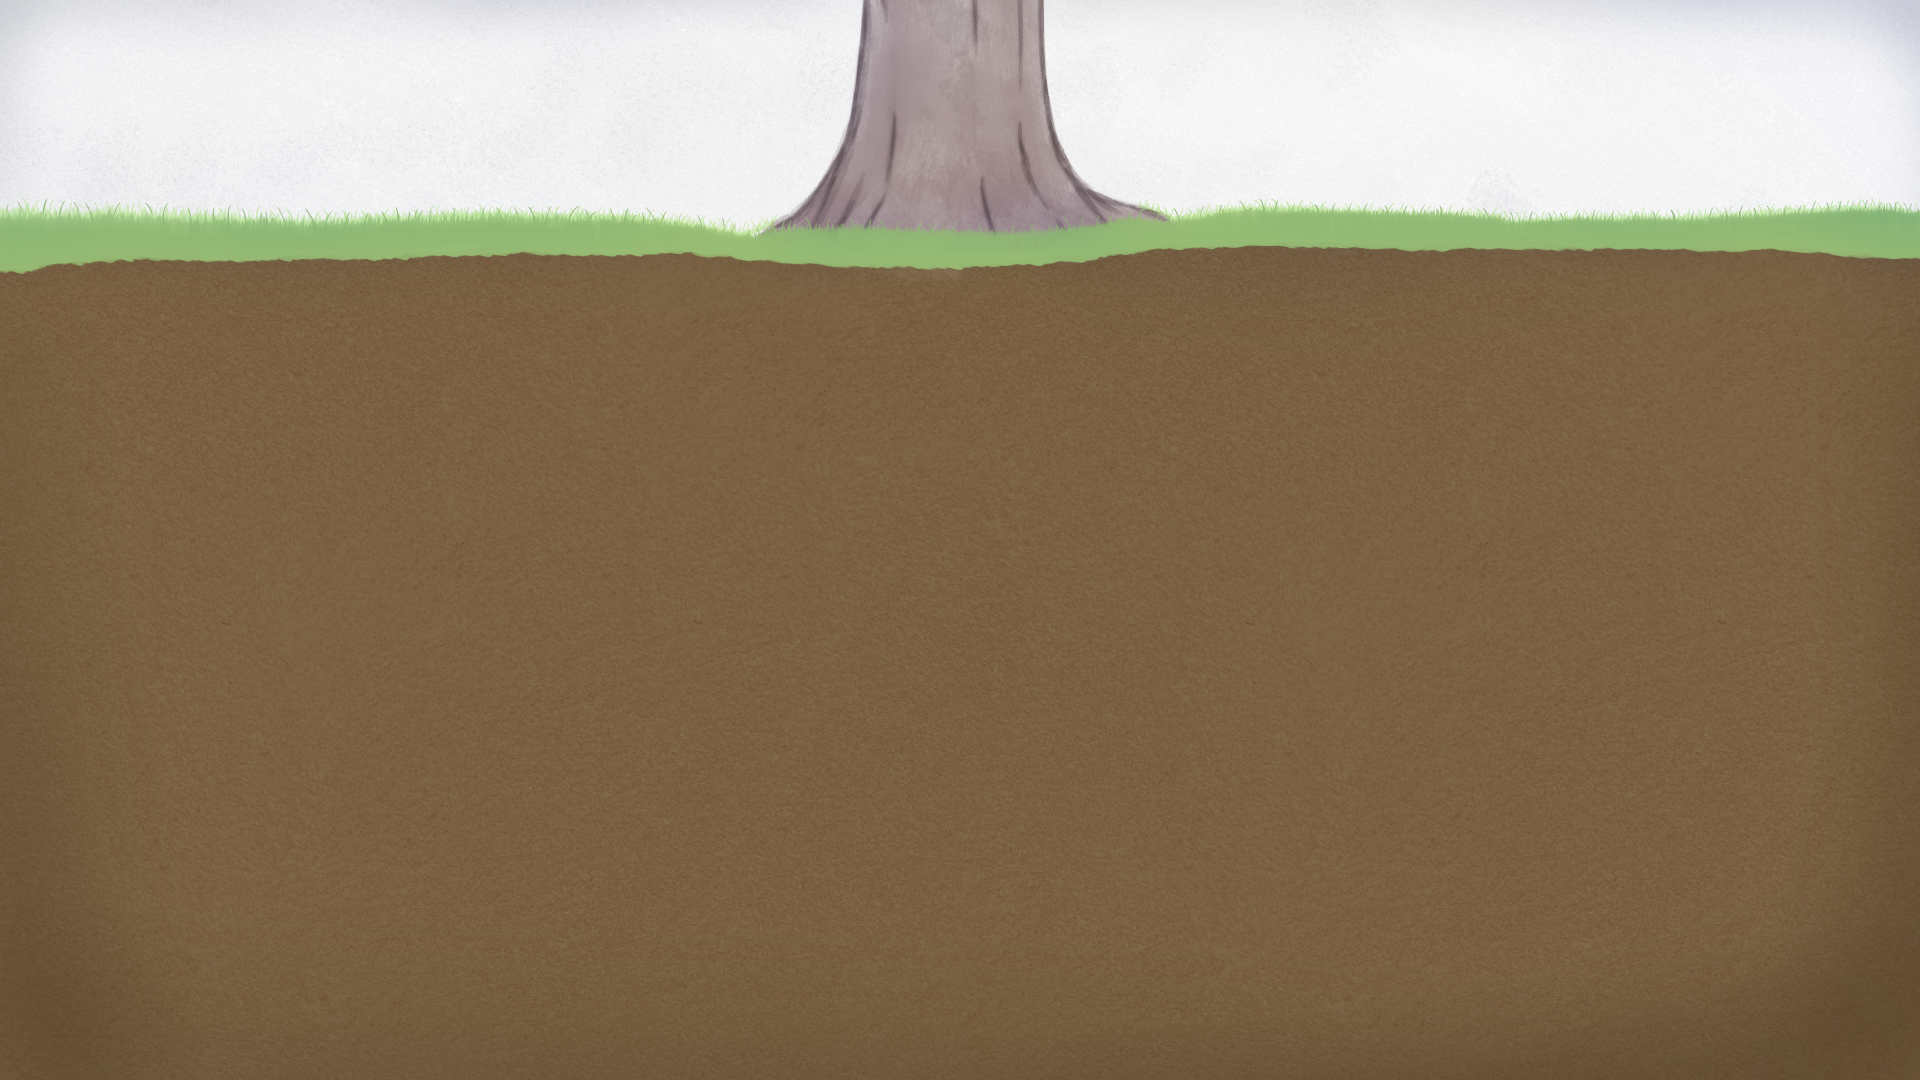
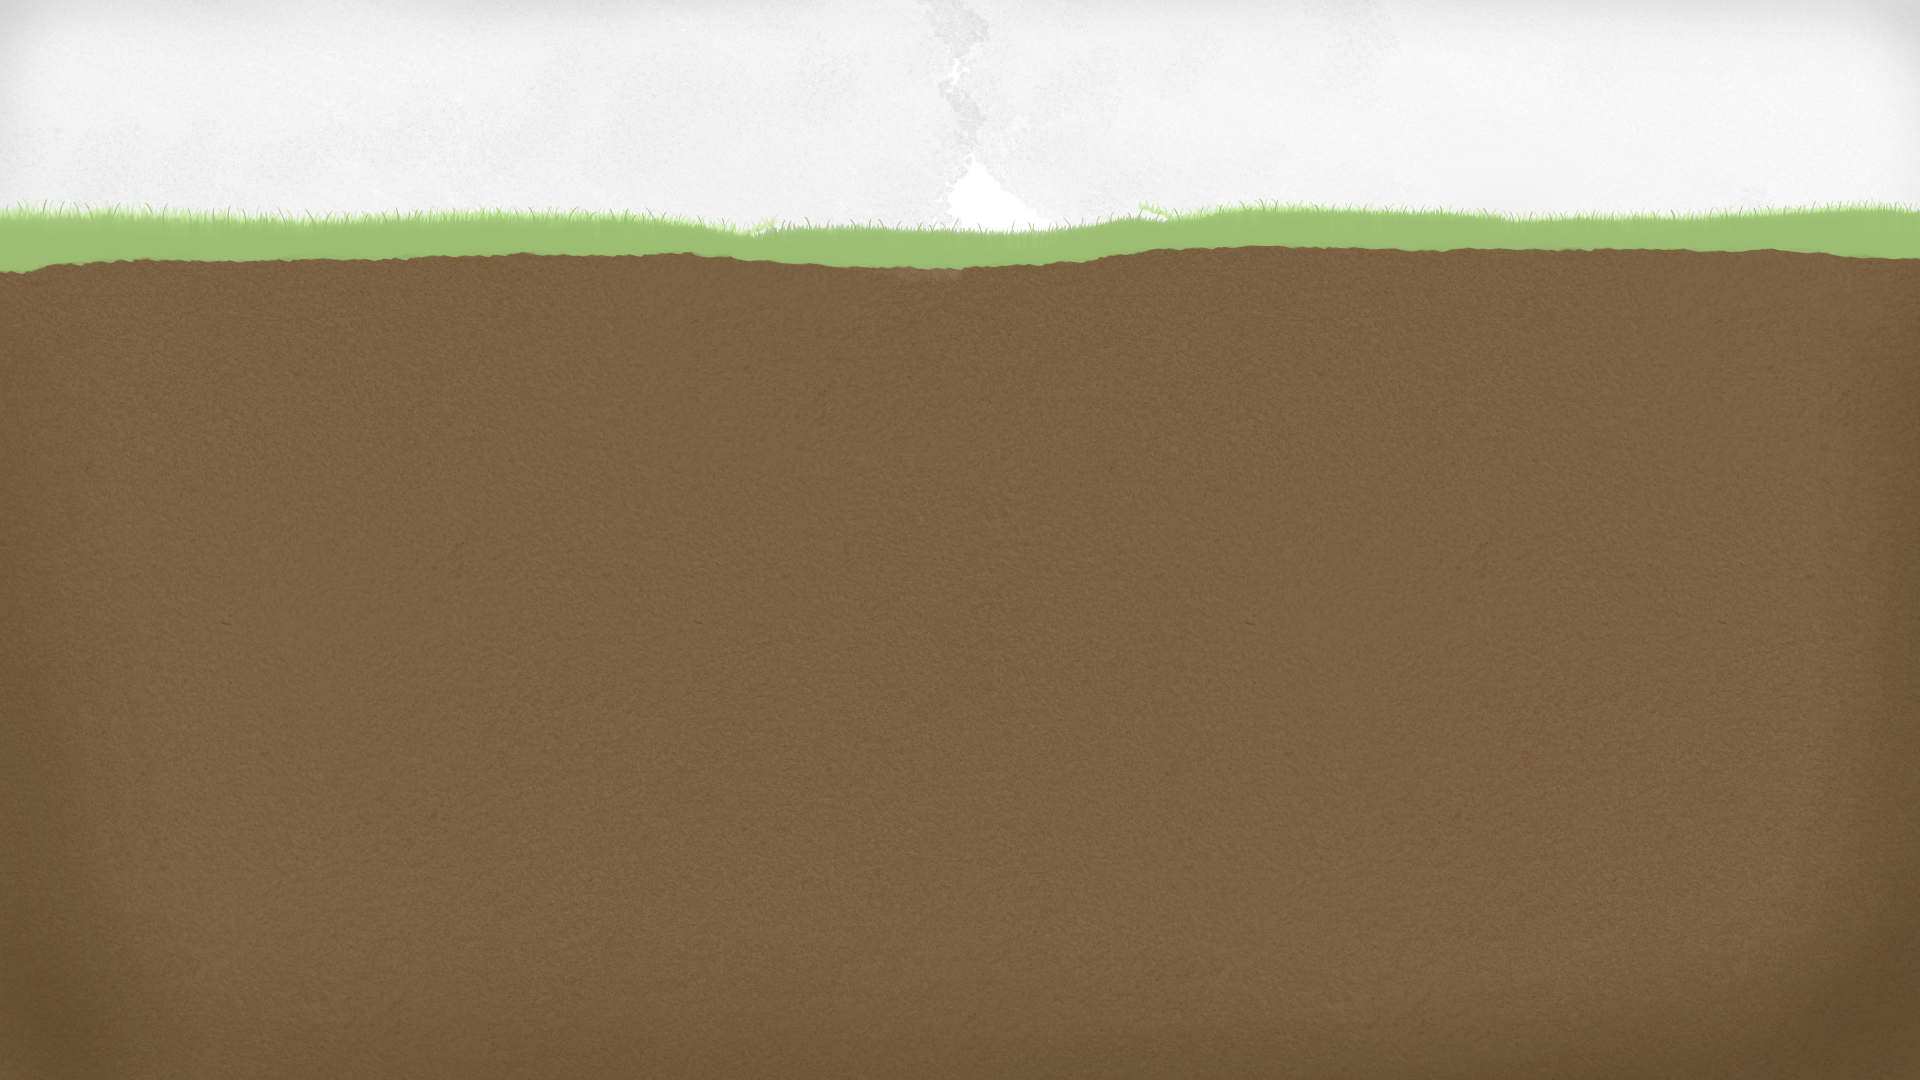
Finishing touches.

Changed region(s): [[0.4062, 0.0, 0.625, 0.2444]]

diff --git a/rain.py b/rain.py
@@ -9,7 +9,7 @@ class Rain():
             self.angle = 3.05
         else:
             self.angle = -3.05
-        self.speed = random.uniform(20, 25)
+        self.speed = random.uniform(15, 20)
         self.color = color(0)
         self.length_ = random.uniform(30, 50)
         self.width_ = random.uniform(0.1, 0.15)
@@ -22,11 +22,15 @@ class Rain():
         if rand > 500:
             self.angle = random.uniform(3.0, 3.10)
         else:
-            self.angle = random.uniform(-3.1, -3.0)
-        self.speed = random.uniform(20, 30)
-        self.color = color(0)
+            self.angle = random.uniform(-3.10, -3.0)
+        rand2 = random.randint(0, 1000)
+        if rand2 > 500:
+            self.color = color(0)
+        else:
+            self.color = color(100)
+        self.speed = random.uniform(15, 20)
         self.length_ = random.uniform(30, 50)
-        self.width_ = random.uniform(0.1, 0.15)
+        self.width_ = random.uniform(0.12, 0.15)
         
     def move(self):
         self.y += self.speed
@@ -34,7 +38,7 @@ class Rain():
             self.x += 0.2
         else:
             self.x -= 0.2
-        if self.y > 200:
+        if self.y > 220:
             self.reset()
             
     def draw(self):

diff --git a/tree.py b/tree.py
@@ -7,7 +7,7 @@ class BinaryTree():
         self.x = x
         self.y = y
         self.indentation = 450
-        self.color = color(167, 105, 181)
+        self.color = color(219, 194, 168)
         self.left = None
         self.right = None
         self.parent = None
@@ -36,7 +36,8 @@ class BinaryTree():
         ellipse(self.x, self.y, 26, 26)
         if self.has_parent():
             self.grow()
-            stroke(167, 105, 181)
+            stroke(219, 194, 168)
+            strokeWeight(2)
             if self.is_left_child():
                 line(self.parent.x, self.parent.y, self.x, self.y)
             elif self.is_right_child():
